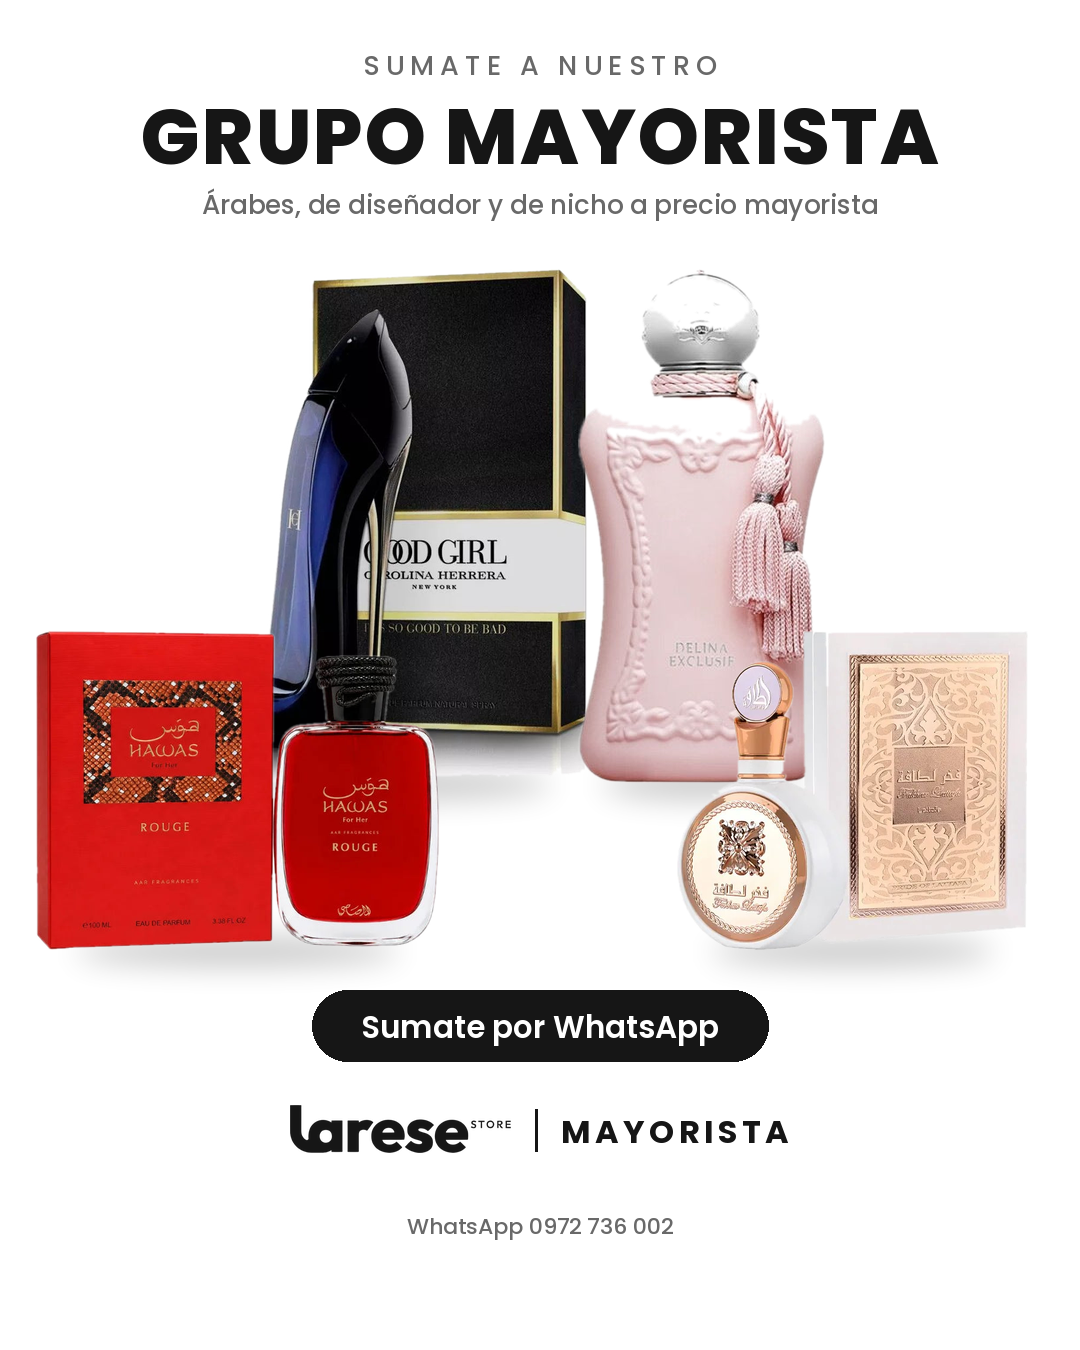
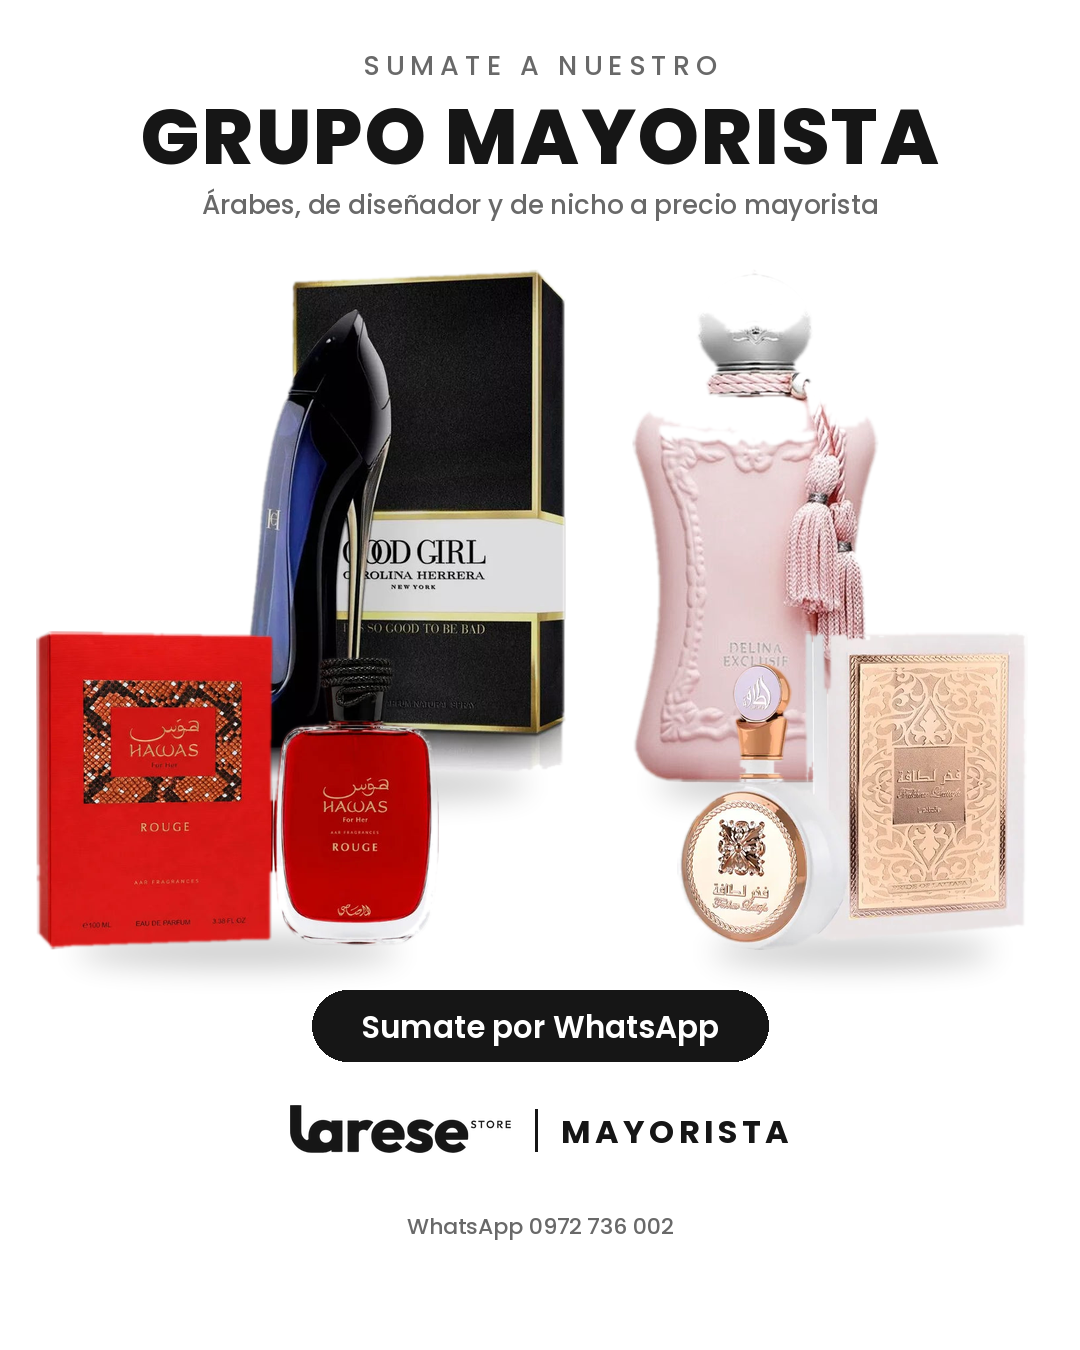
Wholesale ad: add regular Instagram story, clean cutout edges
Claude-Session: https://claude.ai/code/session_01DnzkNLBCvMq4y8uu7fepTP

diff --git a/grupo-mayorista/crear_mayorista.py b/grupo-mayorista/crear_mayorista.py
@@ -3,6 +3,7 @@
 Anuncio del GRUPO MAYORISTA de LARESE STORE con 3 perfumes, fondo blanco.
 
 Uso:
+    python3 crear_mayorista.py spec.json historia salida.png        # 1080x1920, historia común de Instagram
     python3 crear_mayorista.py spec.json meta-historia salida.png   # 1080x1920, zonas seguras de Meta
     python3 crear_mayorista.py spec.json meta-post salida.png       # 1080x1350
 
@@ -39,6 +40,9 @@ from crear_pieza import (  # noqa: E402
 
 # posiciones (y) de cada bloque; la historia deja libre el 14 % de arriba y el 20 % de abajo
 FORMATOS = {
+    "historia": dict(size=(1080, 1920), k=1.0, ante_y=190, titulo_y=232, sub_y=360,
+                     prod=(440, 1250), prod_sin_nombres=(450, 1360), nombres_y=1275,
+                     boton_y=1440, tienda_y=1575, pie_y=1680),
     "meta-historia": dict(size=(1080, 1920), k=1.0, ante_y=300, titulo_y=342, sub_y=470,
                           prod=(545, 1105), prod_sin_nombres=(560, 1205), nombres_y=1130, boton_y=1245, tienda_y=1370, pie_y=1470),
     "meta-post": dict(size=(1080, 1350), k=0.82, ante_y=46, titulo_y=82, sub_y=186,
@@ -64,9 +68,23 @@ def solo_frasco(prod):
     return izq.crop(izq.getbbox())
 
 
+def sin_borde_blanco(p):
+    """Achica un poco el recorte y borra el halo blanco que queda del fondo original."""
+    a = p.getchannel("A").filter(ImageFilter.MinFilter(5))
+    arr = np.array(p.convert("RGB")).astype(int)
+    blanco = (arr.min(axis=2) > 232)
+    borde = np.array(a.filter(ImageFilter.MinFilter(9))) < 255  # solo cerca del contorno
+    alfa = np.array(a)
+    alfa[blanco & borde] = 0
+    p = p.copy()
+    p.putalpha(Image.fromarray(alfa).filter(ImageFilter.GaussianBlur(0.8)))
+    return p
+
+
 def pegar(img, p, cx, base, ancho_max, alto_max):
     esc = min(ancho_max / p.width, alto_max / p.height)
     p = p.resize((int(p.width * esc), int(p.height * esc)), Image.LANCZOS)
+    p = sin_borde_blanco(p)
     x, y = int(cx - p.width / 2), int(base - p.height)
     # sombra de contacto
     s = Image.new("L", img.size, 0)
@@ -110,8 +128,8 @@ def armar(SPEC, formato):
     if len(prods) == 4:
         # grupo: los 2 del medio atrás y más grandes, los 2 de las puntas adelante
         # (centro x relativo, base relativa en la zona, alto relativo, ancho máx relativo)
-        lugares = [(0.22, 1.00, 0.46, 0.40), (0.37, 0.76, 0.74, 0.36),
-                   (0.65, 0.76, 0.74, 0.30), (0.79, 1.00, 0.46, 0.38)]
+        lugares = [(0.22, 1.00, 0.46, 0.40), (0.35, 0.76, 0.74, 0.36),
+                   (0.70, 0.76, 0.74, 0.30), (0.79, 1.00, 0.46, 0.38)]
         for i in (1, 2, 0, 3):  # primero los de atrás
             rx, rb, rh, rw = lugares[i]
             pegar(img, cargados[i], w * rx, y0 + alto_zona * rb, w * rw, alto_zona * rh)
